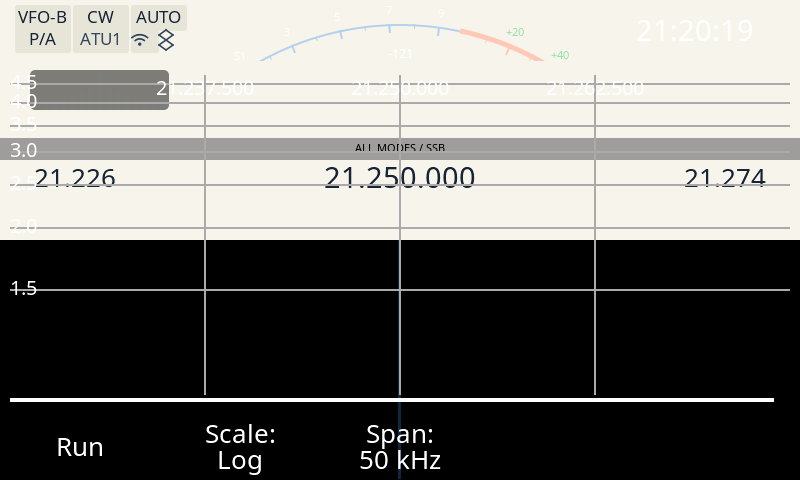
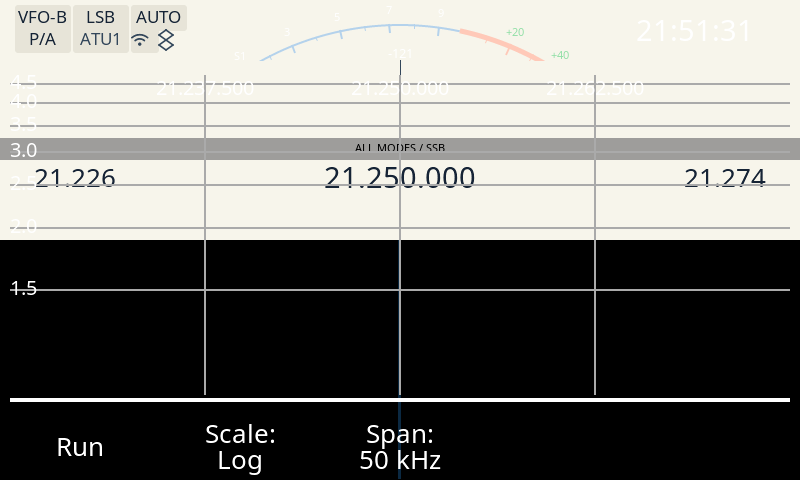
SWR Scan: evidencia de banco del barrido automatico (#113)
Re-captura del dialogo con la geometria borde a borde y el conteo automatico
(span 50 kHz -> 41 puntos): binario md5 69c0f6e6f7fb, fuente md5 fe5839dd9dea,
version e1878ac4, sin crash.txt. Medido con PIL: la curva plana pasa de terminar
16 px antes del borde derecho del chart (764 px, 49/50) a llegar al borde
(780 px), el cambio visible esperado de pasar a paso = span / (puntos - 1).
El estado con el barrido andando confirma tx:true/app:SWRScan y pwr:50 sin tocar
(el barrido escribe la potencia de TX en el registro del equipo, no en cfg.pwr).

Changed region(s): [[0.0312, 0.125, 0.2188, 0.25], [0.0938, 0.0, 0.1562, 0.0625], [0.9688, 0.8125, 1.0, 0.8438]]

diff --git a/docs/evidencia/2026-10-16-roe113-banco/README.md b/docs/evidencia/2026-10-16-roe113-banco/README.md
@@ -1,8 +1,8 @@
-# Banco QEMU — SWR Scan con la parábola y el barrido codificado (#113)
+# Banco QEMU — SWR Scan con el barrido automático y TX al piso del equipo (#113)
 
-**Fecha**: 2026-10-16 · Rama `factory/roe-parabola-113` · HEAD `b9160d07`
-**Binario probado**: `md5 a97cc1cd3adc` (13.743.084 B, "es el firmware del port", 3/3 marcas)
-**Fuente**: `src/ + lvgl/src` → `md5 d22c6f6e544d` · QEMU_CPU `cortex-a7`
+**Fecha**: 2026-10-16 · Rama `factory/roe-parabola-113` · HEAD `e1878ac4`
+**Binario probado**: `md5 69c0f6e6f7fb` (13.743.188 B, "es el firmware del port", 3/3 marcas)
+**Fuente**: `src/ + lvgl/src` → `md5 fe5839dd9dea` · QEMU_CPU `cortex-a7`
 
 ## Método
 
@@ -12,45 +12,77 @@ export CHROOT=/home/pablo/desa/x6200/.vfix3 \
        BUILDROOT=/home/pablo/desa/x6200/buildroot_new/AetherX6200Buildroot
 tools/remote/compila.sh                      # cliente del socket de control
 tools/captura-banco.sh --check               # preflight: docker+imagen+volumen+chroot+qemu+PIL ok
-tools/captura-banco.sh 01-swrscan-abierto.png '{"cmd":"app","text":"SWRScan"}'
-# el contenedor banco-apps queda corriendo: se encadena por docker exec
+tools/captura-banco.sh docs/evidencia/2026-10-16-roe113-banco/01-swrscan-abierto.png \
+    '{"cmd":"app","text":"SWRScan"}'
+# el contenedor banco-apps queda corriendo: se encadena por docker exec (un SEGUNDO
+# captura-banco.sh reinicia la GUI y se pierde la app abierta)
 docker exec banco-apps sh -c 'chroot /t /tmp/x6200-remote "{\"cmd\":\"btn\",\"val\":0}"'   # Run
-docker exec banco-apps sh -c 'chroot /t /tmp/x6200-remote "{\"cmd\":\"get\"}"'
+docker exec banco-apps sh -c 'chroot /t /tmp/x6200-remote "{\"cmd\":\"get\"}"'             # estado
+# y la captura del framebuffer con el mismo paso PIL del script (rotado 270, 480x800x32 BGRA)
 ```
 
-El primer `captura-banco.sh` hace **dirclean + rebuild** (el hash de los fuentes cambió): compila el
-binario ARM desde este worktree y lo pasa por el gate `verifica-firmware-port.py` antes de correrlo.
+El `captura-banco.sh` hace el rebuild cuando el hash de los fuentes cambió: compila el binario ARM
+desde este worktree y lo pasa por el gate `verifica-firmware-port.py` antes de correrlo.
 
 ## Resultado
 
 ```
-  limpiando la GUI (dirclean): el rebuild reusa una copia propia del repo
-  reconstruyendo la GUI: el hash de los fuentes cambio y un fuente es mas nuevo que el binario
-OK: .../usr/sbin/x6200_gui es el firmware del port (ELF32 ARM, 13743084 B, 3/3 marcas)
+OK: .../usr/sbin/x6200_gui es el firmware del port (ELF32 ARM, 13743188 B, 3/3 marcas)
   respuesta: {"t":"ok"}
-  captura: 01-swrscan-abierto.png (315 colores distintos)
-  version: b9160d07 SWR Scan: geometria del barrido y techo de TX codif
-  fuente: md5 d22c6f6e544d (src/ + lvgl/src)
-  binario: md5 a97cc1cd3adc   qemu-cpu: cortex-a7
+  captura: 01-swrscan-abierto.png (289 colores distintos)
+  captura: 02-swrscan-corriendo.png (289 colores distintos)
+  version: e1878ac4 tests: comentario del test del barrido sin la parte
+  fuente: md5 fe5839dd9dea (src/ + lvgl/src)
+  binario: md5 69c0f6e6f7fb   qemu-cpu: cortex-a7
 ```
 
 Estado después de apretar **Run** (`btn 0`):
 
 ```
-{"t":"state","vfo":"A","freq":21250000,"mode":"LSB",...,"tx":true,"app":"SWRScan",...}
+{"t":"state","vfo":"A","freq":21250000,"mode":"LSB",...,"pwr":50,"db":-121,"tx":true,"app":"SWRScan",...}
 ```
 
 - `01-swrscan-abierto.png`: el diálogo abre y dibuja el chart (ejes 1,5..4,5 y 21.226 / 21.250.000 /
-  21.274), botón `Run`. La línea blanca del borde inferior es la curva con los datos iniciales
+  21.274), botón `Run`, `Span: 50 kHz` (= **41 puntos** del modo automático, paso 1250 Hz, 1435 ms
+  de barrido). La línea blanca del borde inferior es la curva con los datos iniciales
   (`data[] = 1.0`): el camino de la parábola corre en el binario ARM y queda **dentro** del área.
-- `02-swrscan-corriendo.png`: con el barrido andando (botón `Stop`, modo `LSB`, `tx:true`), la misma
-  línea: el barrido arranca y el diálogo sigue vivo. **`crash.txt` no existe** (no hubo crash).
+- `02-swrscan-corriendo.png`: con el barrido andando (botón `Stop`, modo `LSB`, `tx:true`,
+  `app:"SWRScan"`), la misma línea: el barrido arranca y el diálogo sigue vivo. **`crash.txt` no
+  existe** (no hubo crash).
+- `"pwr":50` en el estado es **cfg.pwr** (5,0 W, la potencia del operador): el barrido no la toca
+  (la potencia de TX del barrido se escribe en el registro del equipo, no en la config de la GUI), y
+  al pararlo `radio_stop_swrscan()` la restaura (patrón #84/#102/#94). El modo que muestra `01` es el
+  estado de arranque del banco (en la corrida vieja era CW), no algo que cambie este diff.
+
+### Cambio visible medido (geometría borde a borde)
+
+La captura vieja (`ee66faaf`, 50 puntos fijos, paso `span/50`) y la nueva (`e1878ac4`, 41 puntos
+automáticos, paso `span/40`) con el mismo span (50 kHz) y la misma curva plana (`data[] = 1.0`).
+Medido con PIL sobre la corrida blanca más larga de la fila de la curva (y=398):
+
+| Captura | Corrida blanca | Borde derecho del chart (x=789) |
+|---|---|---|
+| vieja (`ee66faaf`) | x 10..**773** = 764 px (49/50 del ancho) | termina **16 px antes** |
+| nueva (`e1878ac4`) | x 10..**789** = 780 px (ancho completo) | **llega al borde** |
+
+Es el cambio esperado de la geometría nueva: antes la última muestra quedaba un paso abajo del borde
+alto del span (49 intervalos de 50) y ahora el barrido va de borde a borde
+(`paso = span / (puntos - 1)`, index 0 = borde bajo, index `puntos-1` = borde alto).
 
 ## requires-radio (lo que el banco NO puede probar)
 
 El banco no tiene radio: **no hay paquetes del flow**, así que `dialog_swrscan_update()` nunca corre
-y `data[]` queda en `1.0` → la curva es una recta plana en el borde inferior del chart. Por eso la
-**forma de la parábola** (un valle limpio, el vértice, el clamp con datos reales) **no se puede
-verificar en el banco**: requiere radio. Lo que sí se verificó acá es que el binario ARM del port
-compila desde este worktree, pasa el gate #86, abre el diálogo, arranca el barrido (TX), dibuja la
-curva por el camino nuevo y **no crashea**.
+y `data[]` queda en `1.0` → la curva es una recta plana en el borde inferior del chart. Por eso
+queda **requires-radio**:
+
+- la **forma de la parábola** (un valle limpio, el vértice, el clamp con datos reales);
+- la **potencia real de TX** del barrido: el banco no tiene equipo, así que la escritura del registro
+  (`x6200_control_txpwr_set(SWRSCAN_TX_POWER_W)`, 0.1 W) no es observable acá. Lo que sí queda
+  verificado es el camino completo en el binario ARM (el barrido arranca y no crashea) y, en código,
+  el valor (`SWRSCAN_TX_POWER_DW = 1` = el piso del control del equipo) con `_Static_assert` + test;
+- que el **medidor de ROE siga midiendo con la misma calidad a 0.1 W** (el firmware reporta `vswr`
+  en el flow; la GUI no tiene umbral de potencia, así que no hay evidencia de código de un umbral).
+
+Lo que sí se verificó acá: el binario ARM del port compila desde este worktree, pasa el gate #86,
+abre el diálogo, arranca el barrido (TX, modo LSB), dibuja la curva por el camino nuevo, la geometría
+borde a borde se ve en la captura y **no crashea**.
